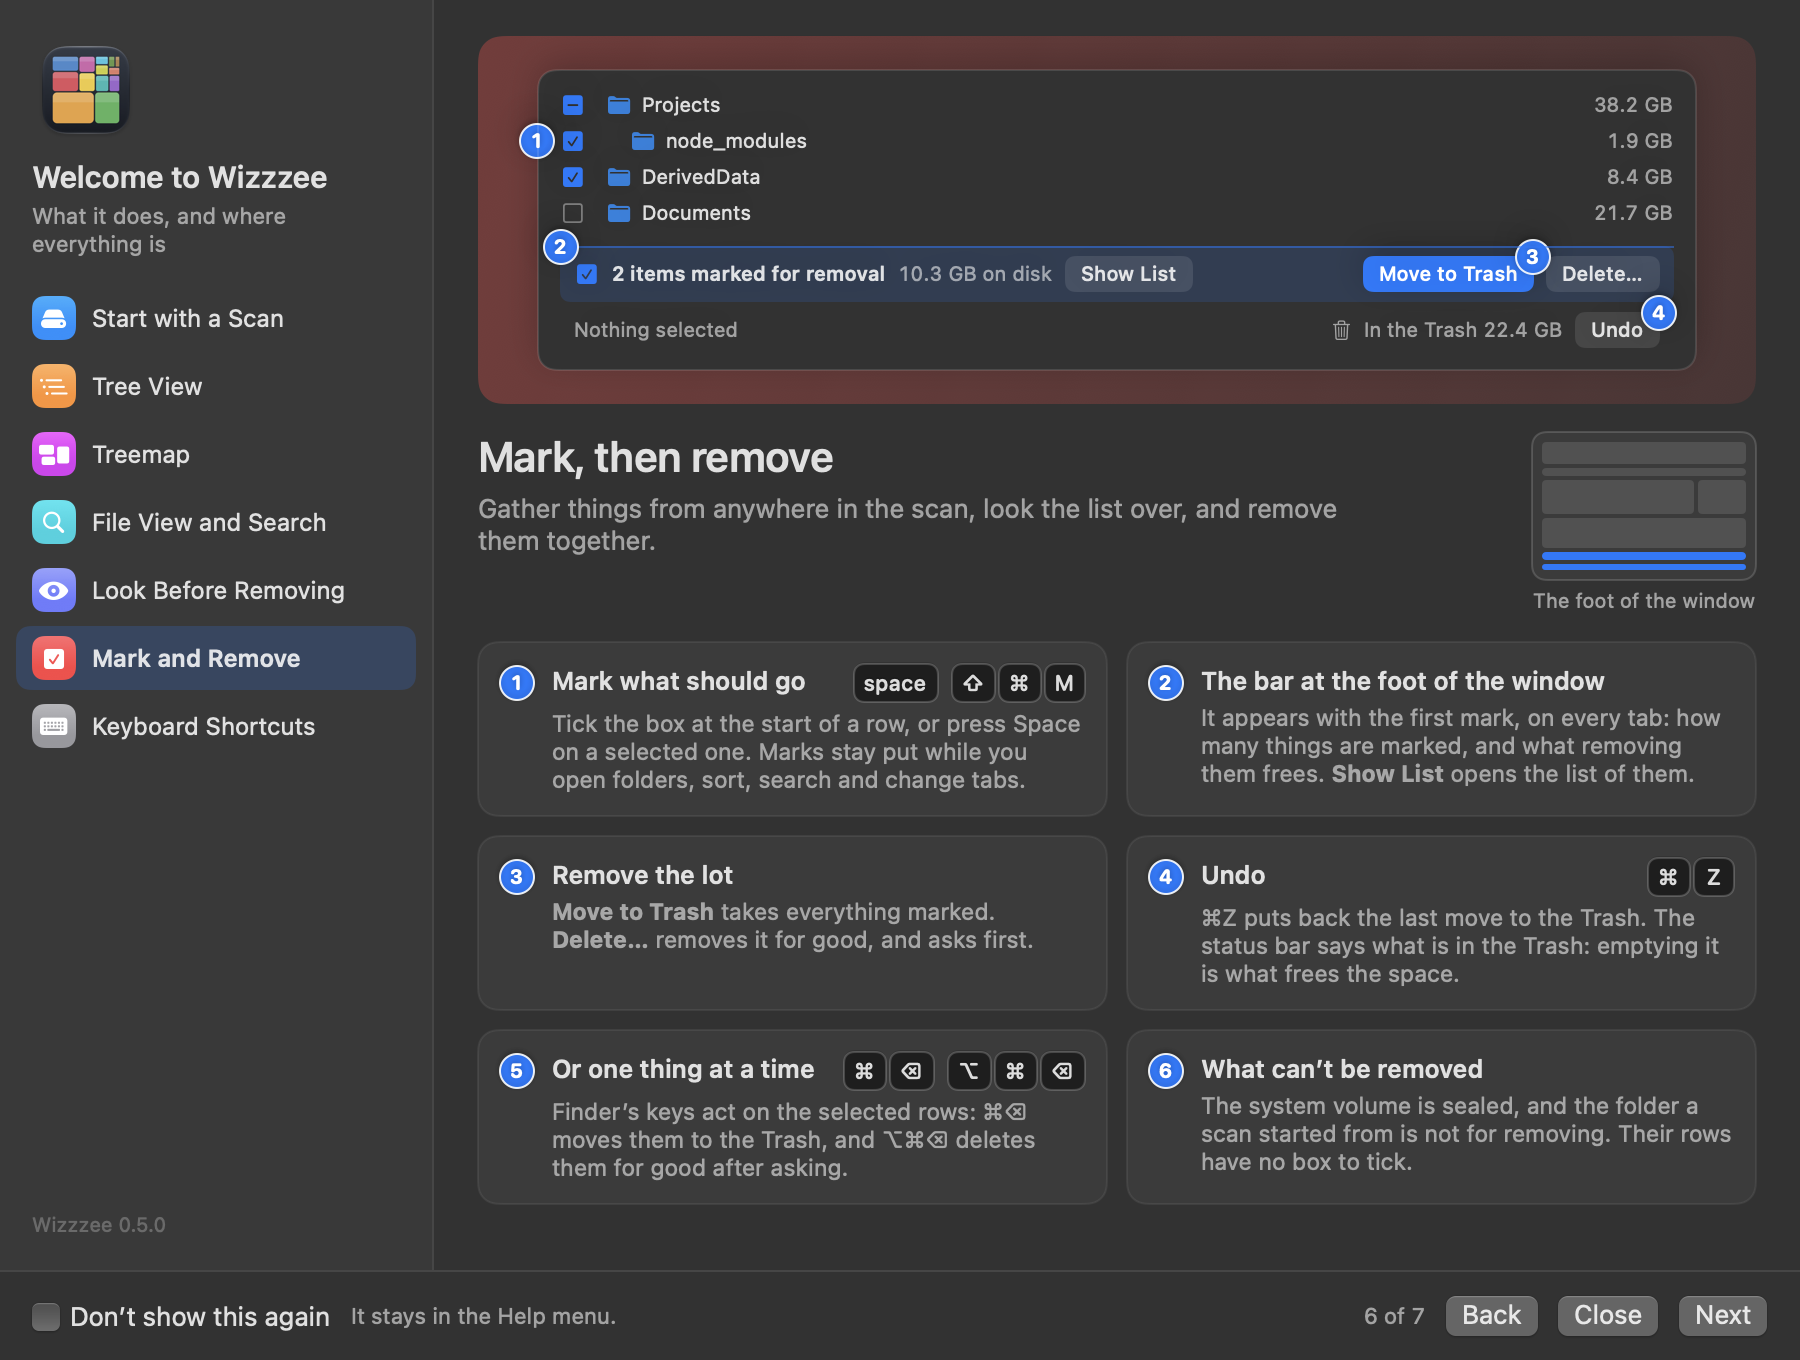
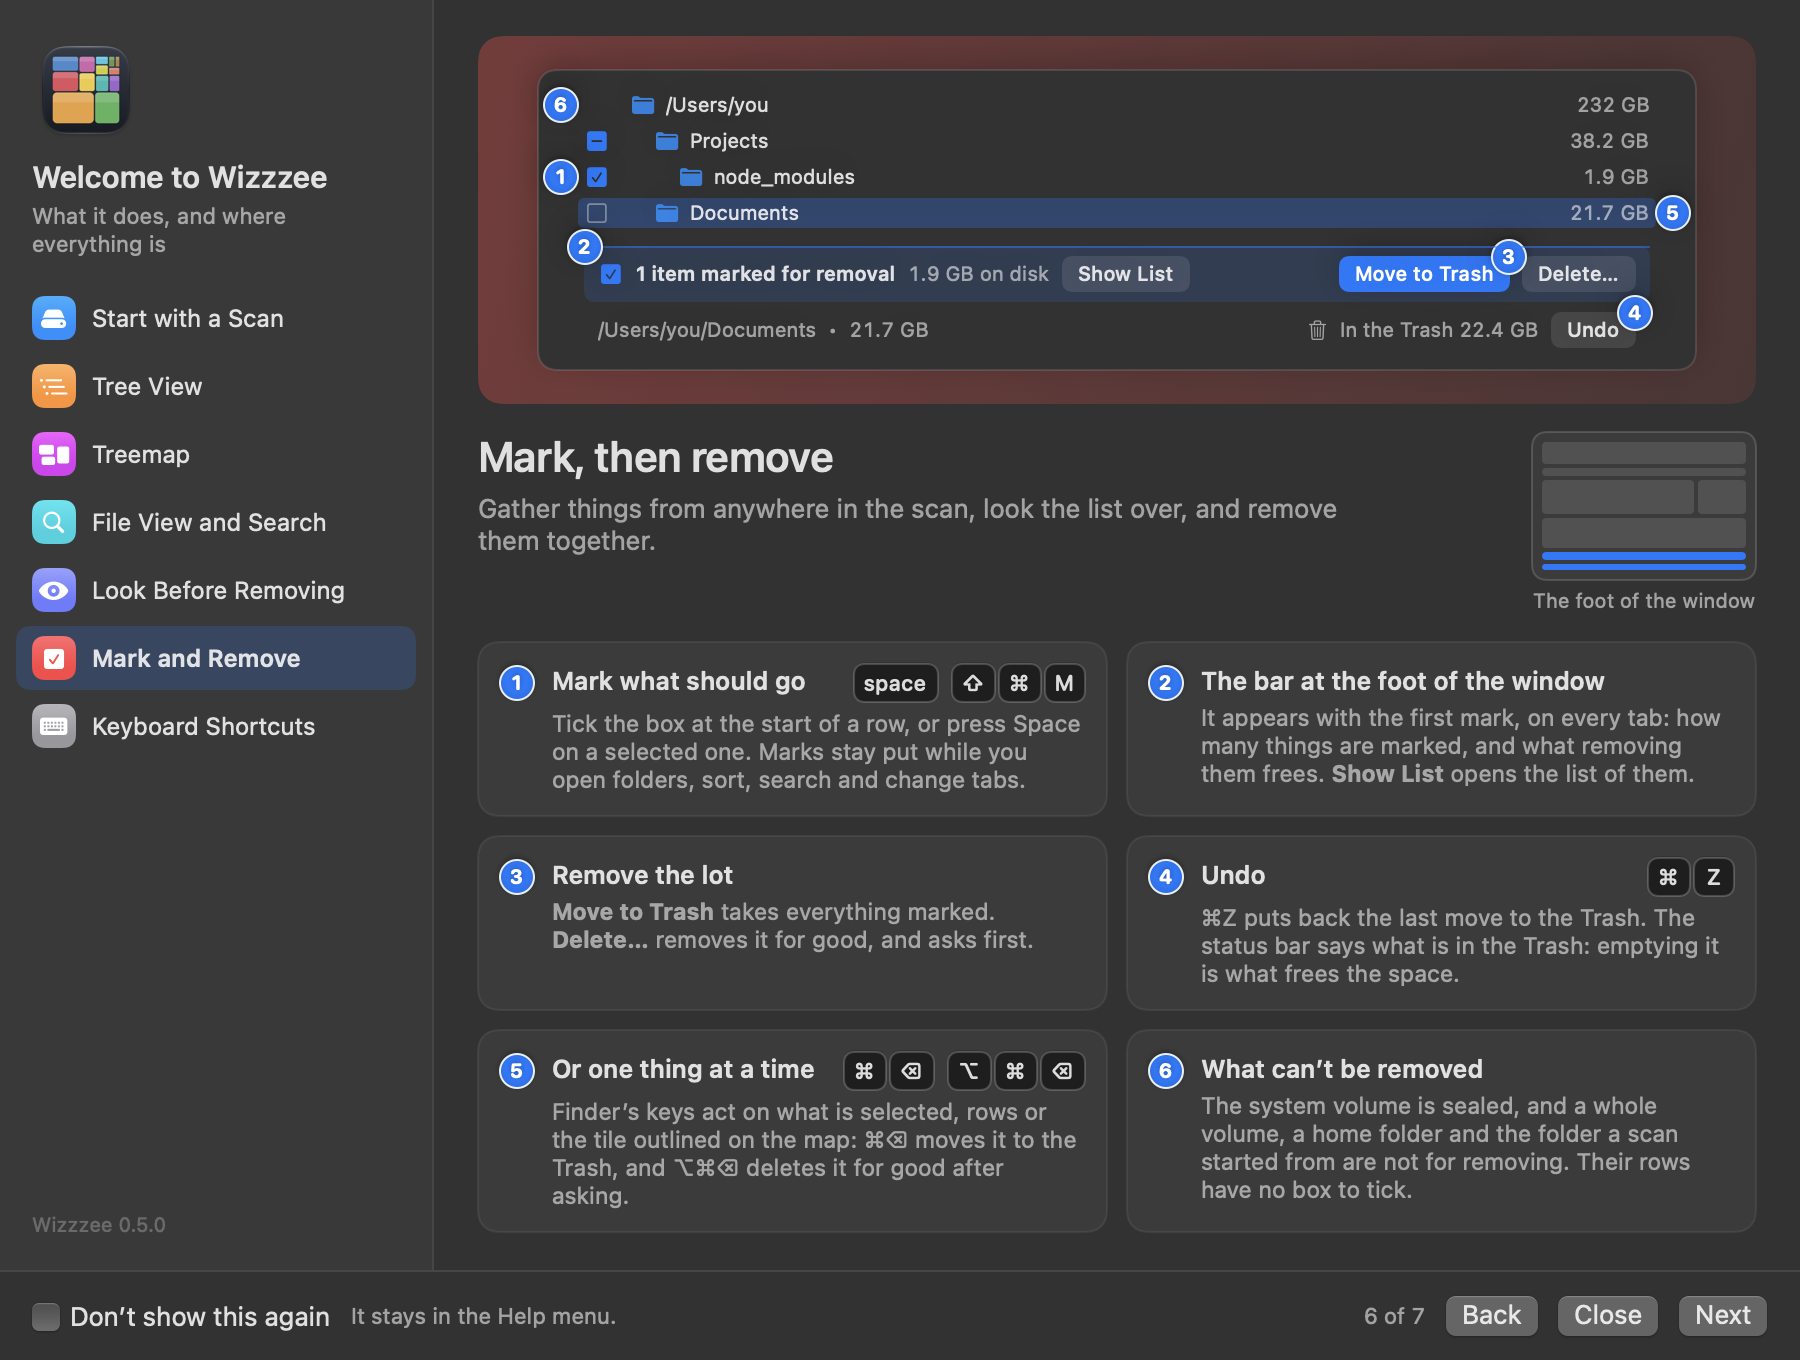
Hold the guide to what the app does, and number every card on its picture
From review of the guide. Each claim it makes was read against the code;
these did not hold, or held for less than they said.

- A tile clicked on the treemap scrolls the tree to its row only if the
  row is there to scroll to: folders are not opened for it.
- A file type picked in File Types lights its tiles on the map. It is
  File View that then lists only that type's files.
- ">1gb" is asked of the measure on show.
- Esc empties the filter from the filter, and Return scans from anywhere
  but the filter.
- Double-click shows a file's row in Finder. On the treemap it zooms.
- The right-click menu was given two items it has only for some things:
  Zoom Treemap Here for a folder, Show in Tree for a file.
- ⌘⌫ acts on the tile outlined on the map as well as on rows.
- A file that is online only is not shown in Quick Look.
- A whole volume and a home folder can't be removed either, not only the
  system volume and the folder a scan started from.
- A rescan keeps what is still there.
- "Everything in the menus has a key" was untrue of the one item this
  change added.

The page on marking had six cards and a picture with four numbers on it.
The picture now has the folder the scan started from, with no box to tick,
and a row that is selected and not marked: the two the cards were about.
Its status line names that row instead of saying nothing is selected.

The map of the window lit the list of file types for File View, which has
[…]

Changed region(s): [[0.28, 0.0618, 0.9333, 0.2471], [0.6533, 0.8029, 0.9644, 0.8956], [0.3111, 0.8029, 0.5911, 0.8956]]

diff --git a/Sources/Wizzzee/UI/WelcomeGuide.swift b/Sources/Wizzzee/UI/WelcomeGuide.swift
@@ -79,8 +79,7 @@ enum WelcomePage: Int, CaseIterable, Identifiable {
             return "Gather things from anywhere in the scan, look the list over, "
                 + "and remove them together."
         case .keys:
-            return "Everything in the menus has a key, and so do a few things "
-                + "that are not in them."
+            return "Every key the app answers, in one place."
         }
     }
 
@@ -104,7 +103,7 @@ enum WelcomePage: Int, CaseIterable, Identifiable {
         case .scan: return [.header]
         case .tree: return [.table, .types]
         case .treemap: return [.treemap]
-        case .search: return [.tabs, .table, .types]
+        case .search: return [.tabs, .filter, .table]
         case .look: return [.table, .treemap]
         case .remove: return [.marks, .status]
         case .keys: return []
@@ -130,9 +129,9 @@ enum WelcomePage: Int, CaseIterable, Identifiable {
                 ),
                 WelcomeTip(
                     3, "Scan again, and keep your place",
-                    "**Rescan** brings the figures up to date and leaves the open "
-                        + "folders, the zoom, the selection and the marks as they "
-                        + "were.",
+                    "**Rescan** brings the figures up to date and keeps the open "
+                        + "folders, the zoom, the selection and the marks, wherever "
+                        + "they are still there.",
                     keys: [["⌘", "R"]]
                 ),
                 WelcomeTip(
@@ -164,8 +163,8 @@ enum WelcomePage: Int, CaseIterable, Identifiable {
                 WelcomeTip(
                     4, "File Types",
                     "The list beside the tree ranks the scan by type. Click a "
-                        + "type to light its tiles on the treemap and list only "
-                        + "its files. Esc in the list lets go.",
+                        + "type to light its tiles on the treemap; File View then "
+                        + "lists only its files. Esc in the list lets go.",
                     keys: [["esc"]]
                 ),
             ]
@@ -173,8 +172,8 @@ enum WelcomePage: Int, CaseIterable, Identifiable {
             return [
                 WelcomeTip(
                     1, "Click to select",
-                    "Click a tile to select it. The tree scrolls to its row, and "
-                        + "the top of the window names it."
+                    "Click a tile to select it. The top of the window names it, "
+                        + "and the tree scrolls to its row if its folder is open."
                 ),
                 WelcomeTip(
                     2, "Zoom in, and back out",
@@ -207,7 +206,8 @@ enum WelcomePage: Int, CaseIterable, Identifiable {
                 ),
                 WelcomeTip(
                     2, "By size",
-                    "`>1gb` finds what is bigger, and `<500kb` what is smaller."
+                    "`>1gb` finds what is bigger and `<500kb` what is smaller, "
+                        + "in the measure on show: On Disk, unless Size is chosen."
                 ),
                 WelcomeTip(
                     3, "By age, type and kind",
@@ -217,8 +217,8 @@ enum WelcomePage: Int, CaseIterable, Identifiable {
                 WelcomeTip(
                     4, "What it found",
                     "The line at the right counts everything that matched, "
-                        + "listed or not, and what it takes up. Esc empties the "
-                        + "filter.",
+                        + "listed or not, and what it takes up. Esc in the filter "
+                        + "empties it.",
                     keys: [["esc"]]
                 ),
             ]
@@ -227,18 +227,20 @@ enum WelcomePage: Int, CaseIterable, Identifiable {
                 WelcomeTip(
                     1, "Quick Look",
                     "⌘Y previews the selected item and follows the selection, so "
-                        + "a list can be worked down with the preview open.",
+                        + "a list can be worked down with it open. A file that is "
+                        + "online only is not shown: that would download it.",
                     keys: [["⌘", "Y"]]
                 ),
                 WelcomeTip(
                     2, "Right-click anything",
-                    "Reveal in Finder, Open, Open in Terminal, Copy Path, Show "
-                        + "in Tree and Zoom Treemap Here, on a row or on a tile."
+                    "Reveal in Finder, Open, Quick Look, Open in Terminal and "
+                        + "Copy Path, on a row or on a tile. A folder adds Zoom "
+                        + "Treemap Here, and a file Show in Tree."
                 ),
                 WelcomeTip(
-                    3, "Double-click a file",
-                    "It is shown in Finder. Double-clicking a folder in the "
-                        + "tree opens it there."
+                    3, "Double-click",
+                    "A file’s row is shown in Finder. A folder’s row in the tree "
+                        + "opens or shuts, and a tile on the treemap zooms in."
                 ),
                 WelcomeTip(
                     4, "The notes beside a name",
@@ -276,15 +278,16 @@ enum WelcomePage: Int, CaseIterable, Identifiable {
                 ),
                 WelcomeTip(
                     5, "Or one thing at a time",
-                    "Finder’s keys act on the selected rows: ⌘⌫ moves them to "
-                        + "the Trash, and ⌥⌘⌫ deletes them for good after asking.",
+                    "Finder’s keys act on what is selected, rows or the tile "
+                        + "outlined on the map: ⌘⌫ moves it to the Trash, and ⌥⌘⌫ "
+                        + "deletes it for good after asking.",
                     keys: [["⌘", "⌫"], ["⌥", "⌘", "⌫"]]
                 ),
                 WelcomeTip(
                     6, "What can’t be removed",
-                    "The system volume is sealed, and the folder a scan started "
-                        + "from is not for removing. Their rows have no box to "
-                        + "tick."
+                    "The system volume is sealed, and a whole volume, a home "
+                        + "folder and the folder a scan started from are not for "
+                        + "removing. Their rows have no box to tick."
                 ),
             ]
         case .keys:
@@ -339,7 +342,7 @@ struct WelcomeShortcutGroup: Identifiable {
         WelcomeShortcutGroup(
             title: "Scanning",
             shortcuts: [
-                WelcomeShortcut([["↩"]], "Scan"),
+                WelcomeShortcut([["↩"]], "Scan (not while typing in the filter)"),
                 WelcomeShortcut([["⌘", "O"]], "Choose a folder to scan"),
                 WelcomeShortcut([["⌘", "."]], "Stop a scan"),
                 WelcomeShortcut([["⌘", "R"]], "Rescan, keeping your place"),
@@ -359,7 +362,7 @@ struct WelcomeShortcutGroup: Identifiable {
                 WelcomeShortcut([["⌘", "F"]], "Search: go to the File View’s filter"),
                 WelcomeShortcut(
                     [["esc"]],
-                    "Empty the filter, or let go of a file type"
+                    "In the filter, empty it; in File Types, let go of the type"
                 ),
                 WelcomeShortcut([["⌘", "Y"]], "Quick Look, or shut it"),
             ]
@@ -619,7 +622,7 @@ struct WelcomePageView: View {
             Spacer(minLength: 0)
             if let place = page.place {
                 VStack(spacing: 4) {
-                    WindowMap(lit: page.regions)
+                    WindowMap(lit: page.regions, showsFileView: page == .search)
                     Text(place)
                         .font(.system(size: 10))
                         .foregroundStyle(.secondary)
@@ -803,21 +806,30 @@ struct GuideBadge: View {
 /// The window, drawn small, with the part a page is about lit.
 struct WindowMap: View {
     enum Region: Hashable {
-        case header, tabs, table, types, treemap, marks, status
+        case header, tabs, table, types, treemap, filter, marks, status
     }
 
     let lit: Set<Region>
+    /// The window as it is with File View in front: the filter over one
+    /// table, where Tree View has the tree, the types beside it and the
+    /// treemap below.
+    var showsFileView = false
 
     var body: some View {
         VStack(spacing: 2) {
             part(.header).frame(height: 11)
             part(.tabs).frame(height: 4)
-            HStack(spacing: 2) {
-                part(.table)
-                part(.types).frame(width: 24)
+            if showsFileView {
+                part(.filter).frame(height: 4)
+                part(.table).frame(height: 28)
+            } else {
+                HStack(spacing: 2) {
+                    part(.table)
+                    part(.types).frame(width: 24)
+                }
+                .frame(height: 17)
+                part(.treemap).frame(height: 15)
             }
-            .frame(height: 17)
-            part(.treemap).frame(height: 15)
             part(.marks).frame(height: 4)
             part(.status).frame(height: 3)
         }

diff --git a/Sources/Wizzzee/UI/WelcomeArt.swift b/Sources/Wizzzee/UI/WelcomeArt.swift
@@ -659,37 +659,54 @@ private struct LookArt: View {
 private struct RemoveArt: View {
     var body: some View {
         VStack(spacing: 5) {
-            row(.partly, "Projects", "38.2 GB")
-            row(.on, "node_modules", "1.9 GB", depth: 1)
+            // The folder the scan started from: no box, since it can't go.
+            row(nil, "/Users/you", "232 GB")
+                .guideBadge(6, at: .leading, outset: 20)
+            row(.partly, "Projects", "38.2 GB", depth: 1)
+            row(.on, "node_modules", "1.9 GB", depth: 2)
                 .guideBadge(1, at: .leading, outset: 20)
-            row(.on, "DerivedData", "8.4 GB")
-            row(.off, "Documents", "21.7 GB")
+            // Selected and not marked, which is what the Finder keys act on.
+            row(.off, "Documents", "21.7 GB", depth: 1, isSelected: true)
+                .guideBadge(5, at: .trailing, outset: 20)
             Spacer(minLength: 0)
             bar.guideBadge(2, at: .topLeading)
             status
         }
+        // Room at the sides for the dots that sit beside a row.
+        .padding(.horizontal, 12)
     }
 
     private func row(
-        _ mark: ArtCheckbox.Mark, _ name: String, _ size: String, depth: Int = 0
+        _ mark: ArtCheckbox.Mark?, _ name: String, _ size: String, depth: Int = 0,
+        isSelected: Bool = false
     ) -> some View {
         HStack(spacing: 5) {
-            ArtCheckbox(mark: mark)
+            if let mark {
+                ArtCheckbox(mark: mark)
+            } else {
+                Color.clear.frame(width: 13, height: 1)
+            }
             Color.clear.frame(width: CGFloat(depth) * 12, height: 1)
             ArtIcon()
             artText(name)
             Spacer(minLength: 6)
             artText(size, .secondary)
         }
+        .background(
+            RoundedRectangle(cornerRadius: 3)
+                .fill(isSelected ? Color.accentColor.opacity(0.3) : Color.clear)
+                .padding(.horizontal, -3)
+                .padding(.vertical, -1)
+        )
     }
 
     private var bar: some View {
         HStack(spacing: 6) {
             ArtCheckbox(mark: .on)
-            Text("2 items marked for removal")
+            Text("1 item marked for removal")
                 .font(.system(size: 10, weight: .semibold))
                 .lineLimit(1)
-            artText("10.3 GB on disk", .secondary)
+            artText("1.9 GB on disk", .secondary)
             ArtButton(title: "Show List")
             Spacer(minLength: 4)
             ArtButton(title: "Move to Trash", isProminent: true).guideBadge(3)
@@ -705,7 +722,8 @@ private struct RemoveArt: View {
 
     private var status: some View {
         HStack(spacing: 6) {
-            artText("Nothing selected", .secondary)
+            // What the row above has selected, as the real one names it.
+            artText("/Users/you/Documents  •  21.7 GB", .secondary)
             Spacer(minLength: 6)
             Image(systemName: "trash")
                 .font(.system(size: 9))

diff --git a/Sources/Wizzzee/App/SelfTest.swift b/Sources/Wizzzee/App/SelfTest.swift
@@ -9504,6 +9504,19 @@ enum SelfTest {
             "delete \(model.canUseDeleteKeys), mark \(model.canMarkSelection)"
         )
 
+        // Quick Look's panel floats over a sheet, and its key is one of
+        // those the guide holds off.
+        model.togglePreview()
+        let wasLooking = model.previewURL != nil
+        model.showWelcome()
+        check(
+            "the guide shuts Quick Look as it opens, and is not put up beside it",
+            wasLooking && model.showsWelcome && model.previewURL == nil,
+            "looking before \(wasLooking), after \(model.previewURL != nil); "
+                + "guide up \(model.showsWelcome)"
+        )
+        model.showsWelcome = false
+
         // Two sheets on one window are shown one after the other: the guide
         // would come up when the question under it had been answered.
         model.confirmDeletingSelection()

diff --git a/Sources/Wizzzee/App/AppModel.swift b/Sources/Wizzzee/App/AppModel.swift
@@ -957,8 +957,12 @@ final class AppModel: ObservableObject {
     }
 
     /// Puts the guide up, at `page`. Already up, it turns to that page.
+    ///
+    /// Quick Look is shut first. Its panel floats over the guide, and ⌘Y,
+    /// which would shut it, is off for as long as the guide is up.
     func showWelcome(at page: WelcomePage = .scan) {
         guard showsWelcome || canShowWelcome else { return }
+        if previewURL != nil { previewURL = nil }
         welcomePage = page
         showsWelcome = true
     }
